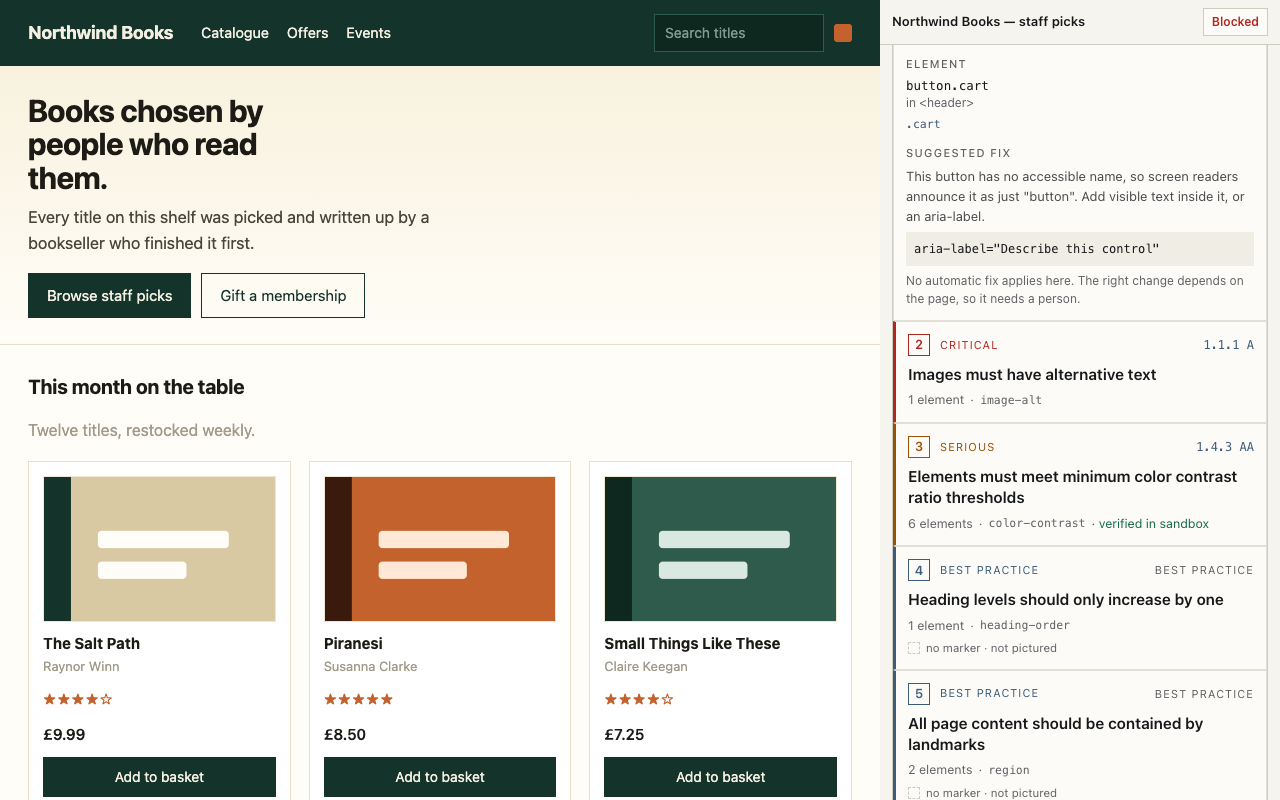
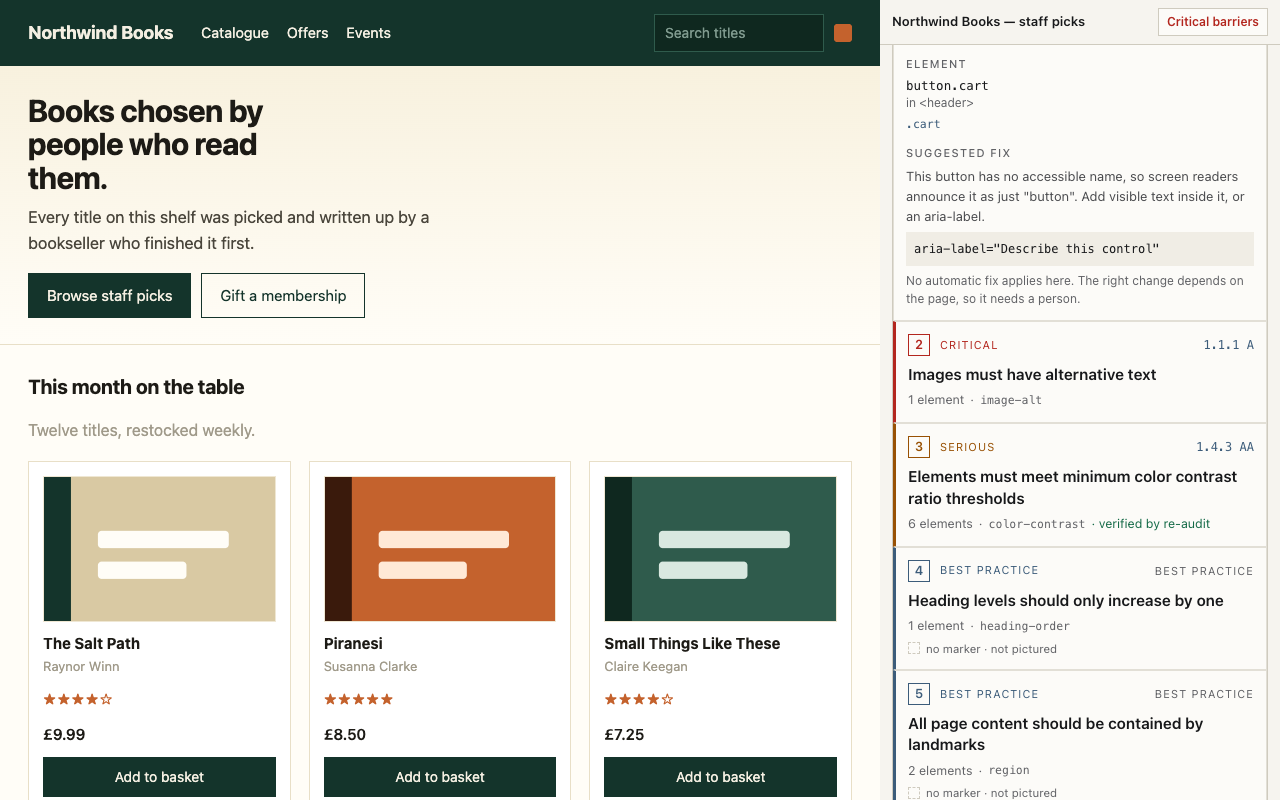
chore(extension): release 1.2.2
Bumps the version for the store, and regenerates the listing screenshots so
they show "Critical barriers" and the fix applied then undone, instead of
"Blocked" and a sandbox copy.

diff --git a/extension/STORE-LISTING.md b/extension/STORE-LISTING.md
@@ -6,7 +6,7 @@ submitted automatically.
 ## Basics
 
 - **Item name:** AccessCheck
-- **Version:** 1.2.1
+- **Version:** 1.2.2
 - **Category:** Developer Tools
 - **Default language:** English (United States)
 - **Visibility:** Unlisted
